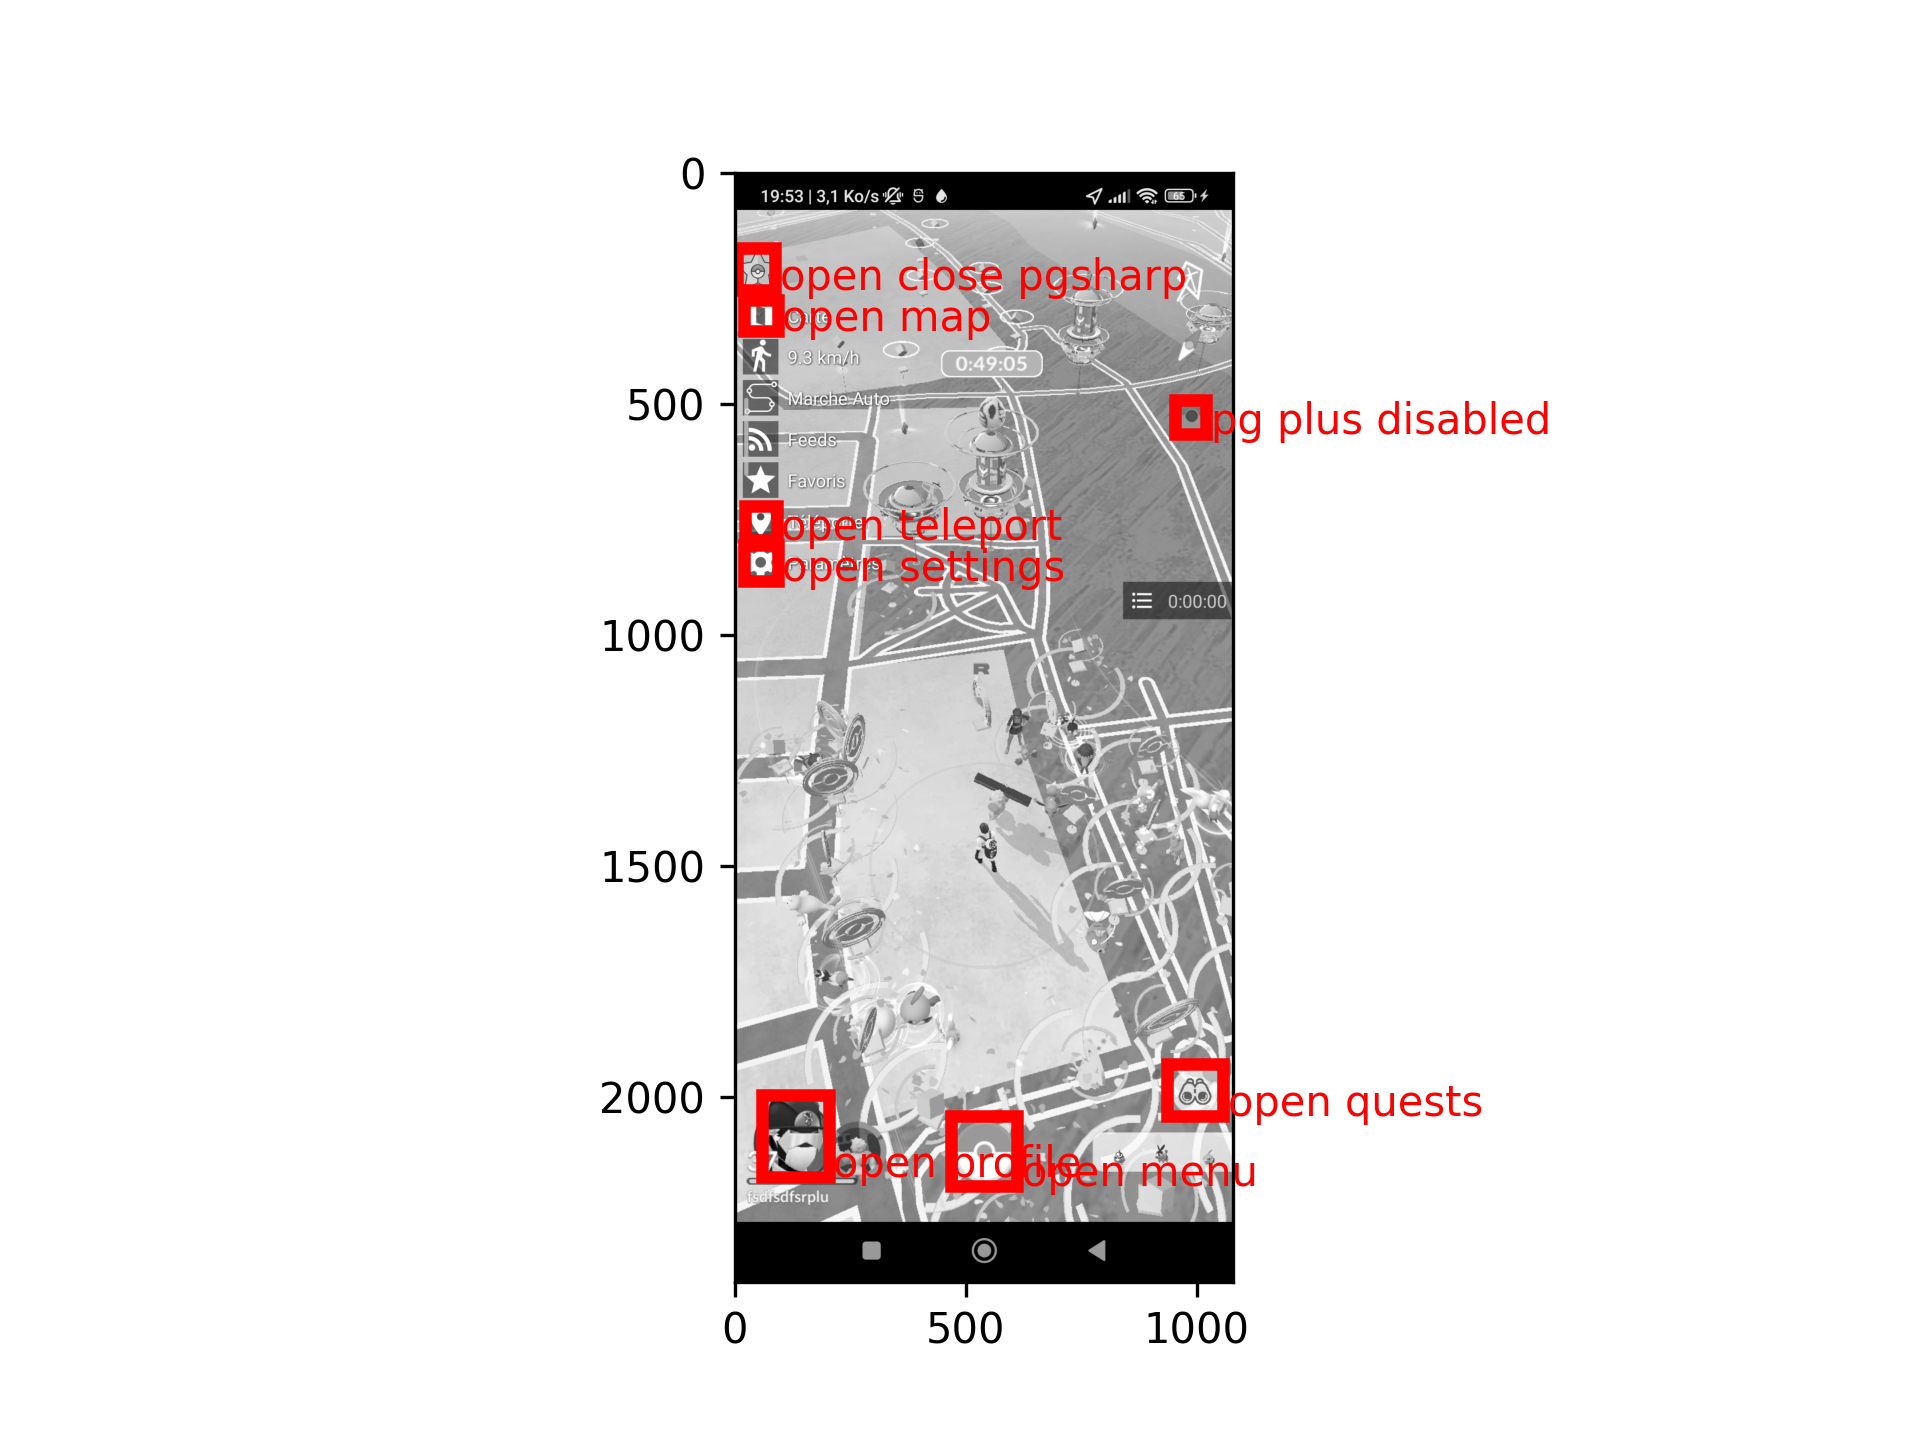
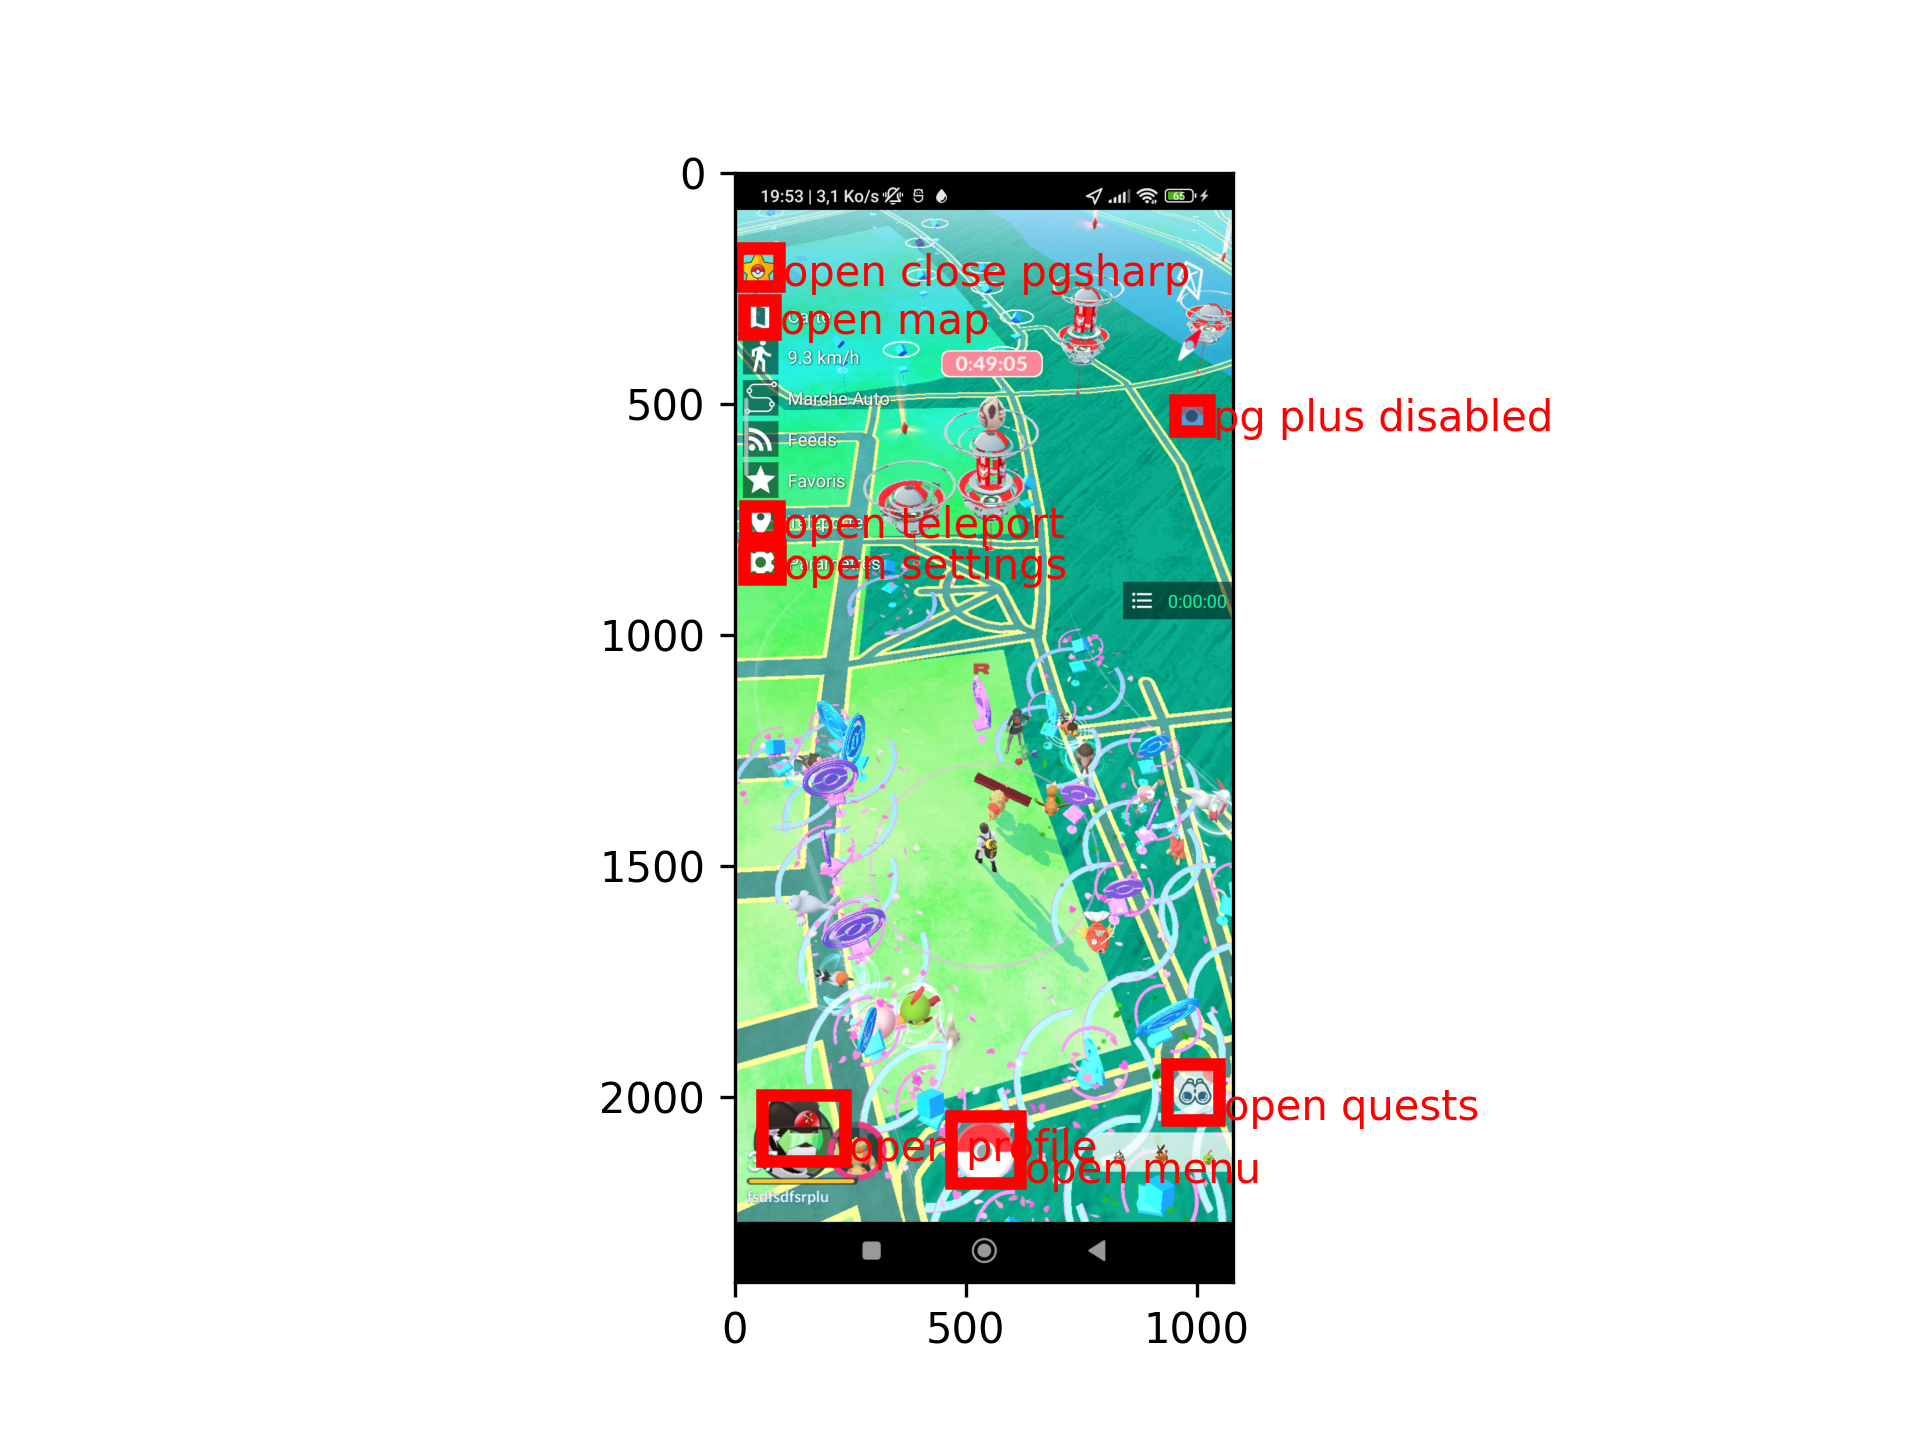
turned patternrecognition into colors

Changed region(s): [[0.375, 0.125, 0.8125, 0.875]]

diff --git a/opencv_test.py b/opencv_test.py
@@ -19,22 +19,20 @@ def process(meth, img, template):
         top_left = min_loc
     else:
         top_left = max_loc
-    bottom_right = (top_left[0] + w, top_left[1] + h)
-    return top_left, bottom_right
+    return top_left
 
 
 for image in ['main.png']:
-    image = cv.imread(f'screenshots/{image}', 0)
+    image = cv.imread(f'screenshots/{image}')
     plt.imshow(cv2.cvtColor(image, cv2.COLOR_BGR2RGB))
     for templatename in os.listdir('templates_for_main'):
-        template = cv.imread(f'templates_for_main/{templatename}', 0)
-        w, h = template.shape[::-1]
+        template = cv.imread(f'templates_for_main/{templatename}')
         # All the 6 methods for comparison in a list
-        topleft, bottomright = process(methods[1], image, template)
-        (x0, y0), (x1, y1) = topleft, bottomright
-        center = (x0 + x1) / 2, (y0 + y1) / 2
-        rect = patches.Rectangle(bottomright, x0 - x1, y0 - y1, linewidth=3, edgecolor='r', facecolor='none')
+        x, y = process(methods[1], image, template)
+        width, height = template.shape[:2]
+        bottomright = (x + width, y + height)
+        rect = patches.Rectangle((x, y), width, height, linewidth=3, edgecolor='r', facecolor='none')
         plt.gca().add_patch(rect)
-        plt.text(x1 + 10, y1, templatename.replace('.png', '').replace('_', ' '), color='red')
+        plt.text(x + width + 10, y + height, templatename.replace('.png', '').replace('_', ' '), color='red')
     plt.savefig('patterns.png', dpi=300)
     plt.show()
